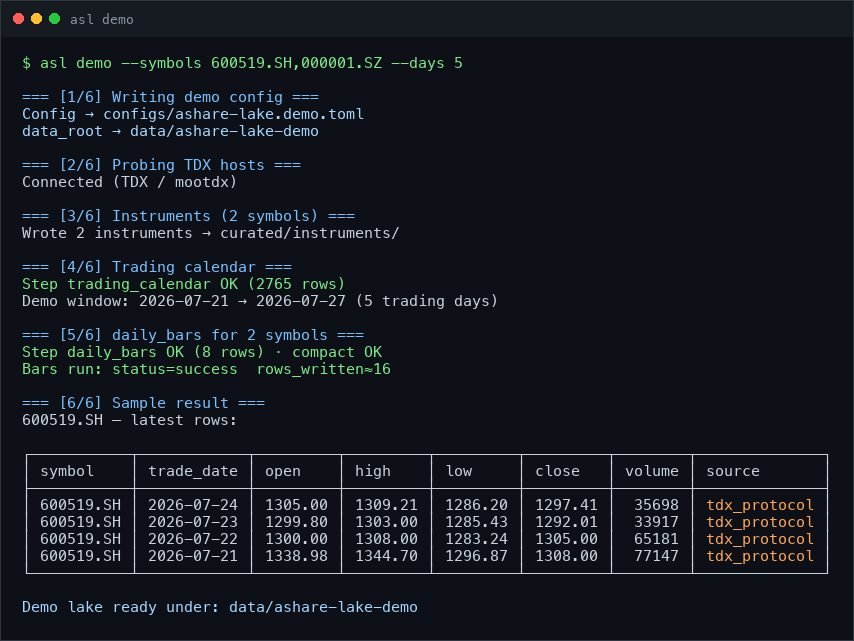
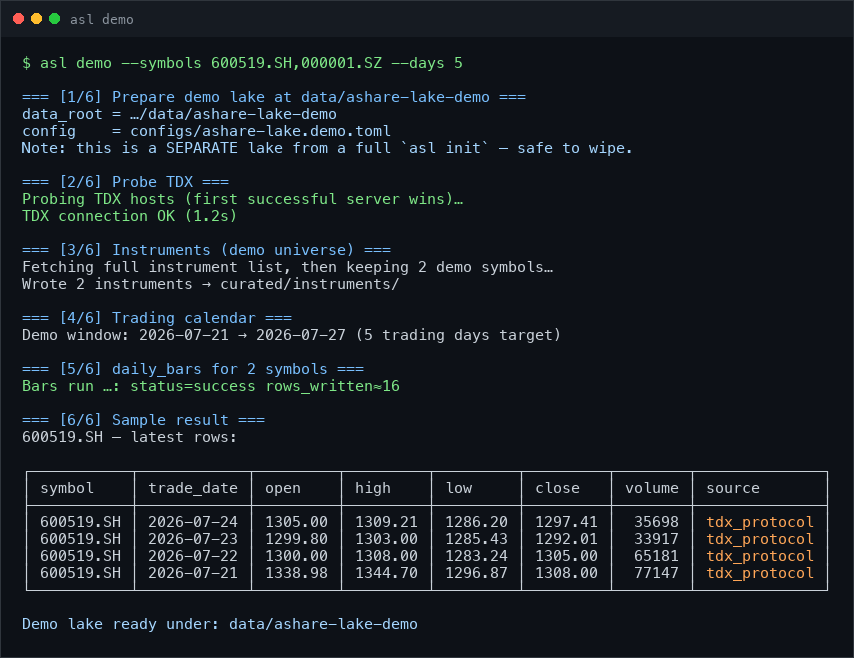
docs: refresh README screenshots for post-mootdx demo copy
The checked-in asl-demo shot still said "Connected (TDX / mootdx)". Update the
render transcript to match current asl demo banners (Probe TDX / connection OK)
and regenerate the PNGs.

diff --git a/scripts/render_readme_screenshots.py b/scripts/render_readme_screenshots.py
@@ -25,23 +25,24 @@ _FONT_CANDIDATES = [
 DEMO = """\
 $ asl demo --symbols 600519.SH,000001.SZ --days 5
 
-=== [1/6] Writing demo config ===
-Config → configs/ashare-lake.demo.toml
-data_root → data/ashare-lake-demo
+=== [1/6] Prepare demo lake at data/ashare-lake-demo ===
+data_root = …/data/ashare-lake-demo
+config    = configs/ashare-lake.demo.toml
+Note: this is a SEPARATE lake from a full `asl init` — safe to wipe.
 
-=== [2/6] Probing TDX hosts ===
-Connected (TDX / mootdx)
+=== [2/6] Probe TDX ===
+Probing TDX hosts (first successful server wins)…
+TDX connection OK (1.2s)
 
-=== [3/6] Instruments (2 symbols) ===
+=== [3/6] Instruments (demo universe) ===
+Fetching full instrument list, then keeping 2 demo symbols…
 Wrote 2 instruments → curated/instruments/
 
 === [4/6] Trading calendar ===
-Step trading_calendar OK (2765 rows)
-Demo window: 2026-07-21 → 2026-07-27 (5 trading days)
+Demo window: 2026-07-21 → 2026-07-27 (5 trading days target)
 
 === [5/6] daily_bars for 2 symbols ===
-Step daily_bars OK (8 rows) · compact OK
-Bars run: status=success  rows_written≈16
+Bars run …: status=success rows_written≈16
 
 === [6/6] Sample result ===
 600519.SH — latest rows:
@@ -122,7 +123,7 @@ def _colorize_line(line: str) -> list[tuple[str, str]]:
     if "tdx_protocol" in line and "│" in line:
         parts = line.rsplit("tdx_protocol", 1)
         return [(parts[0], "#c9d1d9"), ("tdx_protocol", "#ffa657"), (parts[1], "#c9d1d9")]
-    if line.startswith(("Demo lake", "Config →", "data_root")):
+    if line.startswith(("Demo lake", "Config →", "data_root", "config    =", "Note:")):
         return [(line, "#a5d6ff")]
     if "OK" in line or "success" in line or "ready" in line:
         return [(line, "#7ee787")]
@@ -169,7 +170,6 @@ def render_terminal(text: str, out: Path, *, title: str) -> None:
 
 
 def main() -> None:
-    # Prefer the slightly cleaner Connected line in the checked-in demo shot.
     render_terminal(DEMO, ASSETS / "asl-demo.png", title="asl demo")
     render_terminal(QUERY, ASSETS / "asl-query.png", title="asl query")
     render_terminal(LOAD, ASSETS / "asl-load.png", title="python — load()")

diff --git a/CHANGELOG.md b/CHANGELOG.md
@@ -19,6 +19,8 @@ the project adheres to [Semantic Versioning](https://semver.org/).
 - README (zh/en) leads with a **shortest path to data** (demo vs daily lake),
   then datasets and the peer comparison table — less duplicate install/read
   sections for first-time readers.
+- README screenshots re-rendered without the retired `mootdx` probe line;
+  banner copy tracks current `asl demo`.
 
 ### Fixed
 

diff --git a/docs/assets/README.md b/docs/assets/README.md
@@ -18,4 +18,5 @@ Regenerate (needs Pillow in the venv):
 .venv/bin/python scripts/render_readme_screenshots.py
 ```
 
-Numbers come from a short live `asl demo` run; re-render after UX copy changes.
+Banner copy should track `asl demo` (no mootdx). Sample bar numbers may be
+from an older live run; re-render after UX copy changes.
